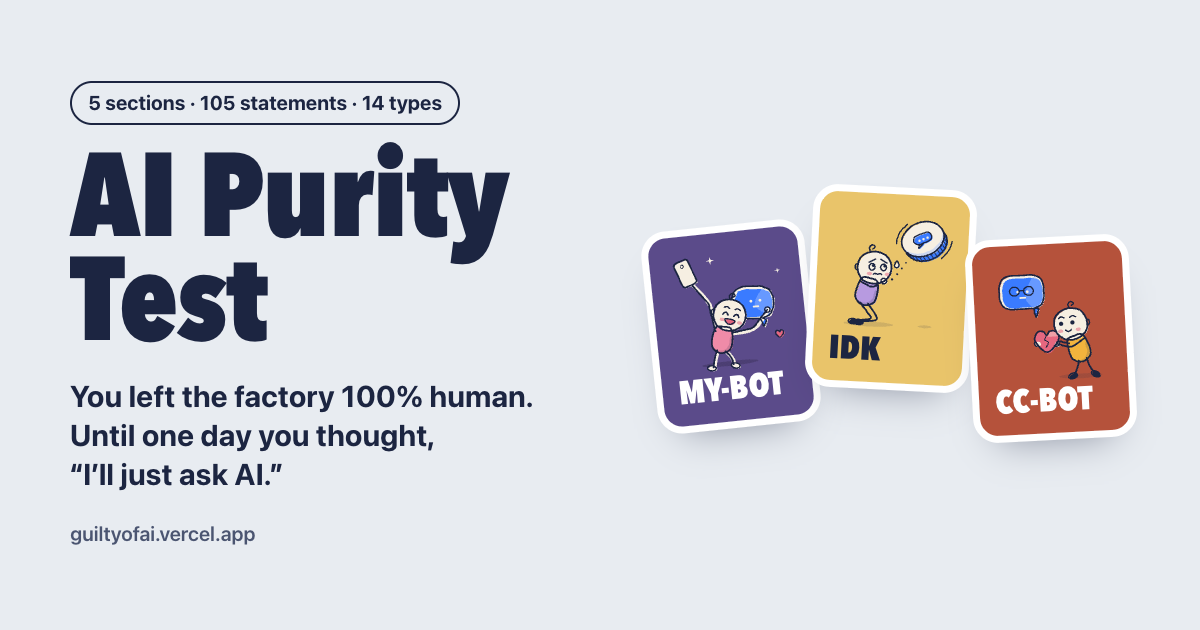
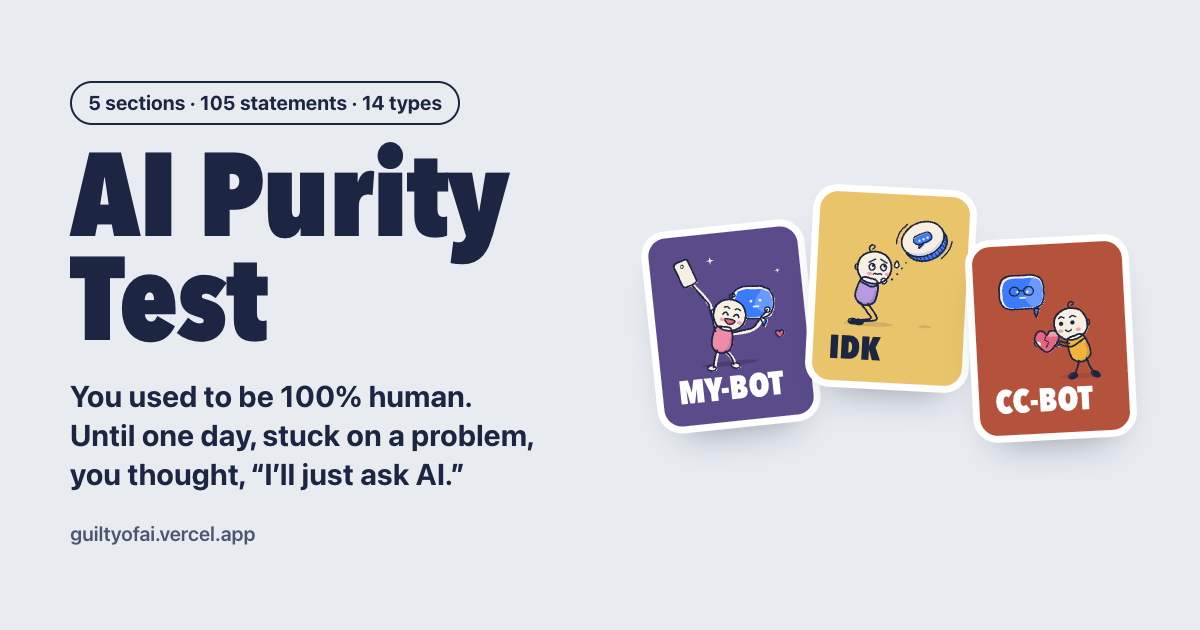
copy: landing story goes from hard problems to everyday asks
Opening now reads "you used to be 100% human", then the first ask on a
problem, then everyday asks, ending "you got a little more bot". Short
English quotes on the landing keep their words on one line.

Changed region(s): [[0.0617, 0.6032, 0.4625, 0.7841]]

diff --git a/content.js b/content.js
@@ -21,7 +21,7 @@
 globalThis.APT_CONTENT = {
   ui: {
     appName:         { en: "AI Purity Test", zh: "AI 纯度测试" },
-    intro:           { en: "Since then you’ve asked it what to eat, how to answer that text, and why everyone was laughing.\nEvery “just ask” took a little off.", zh: "后来，你问它今天吃啥，问它那条消息怎么回，问它大家到底在笑什么梗。\n每一次“就问一下”，都扣了你一点。" },
+    intro:           { en: "At first it was only the hard stuff. Then it was what to eat, what to wear, whether to post that photo. You asked without thinking.\nAsk by ask, you got a little more bot.", zh: "一开始只是难题。后来，今天吃啥、穿哪件、这张照片发不发，你都顺手问一下。\n问着问着，你越来越“人机”了。" },
     meta:            { en: "30 little things · about 2 minutes · your answers stay on your device", zh: "30 件小事 · 约 2 分钟 · 答案不会上传" },
     // The landing story ends on this: {name} is the purest type, {n} the number of
     // other types.
@@ -424,7 +424,7 @@ globalThis.APT_CONTENT = {
    */
   landing: {
     badge:     { en: "5 sections · 105 statements · 14 types", zh: "5 个部分 · 105 条题库 · 14 种人格" },
-    lead:      { en: "You left the factory 100% human.\nUntil one day you thought, “I’ll just ask AI.”", zh: "出厂时，你是 100% 纯人类。\n直到有一天，你心想：“就问一下 AI 吧。”" },
+    lead:      { en: "You used to be 100% human.\nUntil one day, stuck on a problem, you thought, “I’ll just ask AI.”", zh: "曾经，你也是 100% 纯人类。\n直到有一天，遇到一个想不通的问题，你心想：“就问一下 AI 吧。”" },
     count:     { en: "{n} tests finished", zh: "已完成 {n} 次测试" },
     scrollCue: { en: "Scroll: what this test is", zh: "往下看：这是个什么测试" },
     ranking: {

diff --git a/index.html b/index.html
@@ -34,7 +34,7 @@
   <!-- ?v= on every local file: GitHub Pages lets browsers cache them for
        10 minutes, so a new version gets a new address. Bump it before each
        push with `node tools/bump-version.js` (all of them change together). -->
-  <link rel="stylesheet" href="styles.css?v=20261116p">
+  <link rel="stylesheet" href="styles.css?v=20261116q">
 </head>
 <body>
   <header class="topbar">
@@ -59,10 +59,10 @@
        (comparison, remarks, collection; they use the scoring functions),
        then the characters (optional: without art.js the types just show no
        picture), then the UI. -->
-  <script src="content.js?v=20261116p"></script>
-  <script src="scoring.js?v=20261116p"></script>
-  <script src="extras.js?v=20261116p"></script>
-  <script src="art.js?v=20261116p"></script>
-  <script src="app.js?v=20261116p"></script>
+  <script src="content.js?v=20261116q"></script>
+  <script src="scoring.js?v=20261116q"></script>
+  <script src="extras.js?v=20261116q"></script>
+  <script src="art.js?v=20261116q"></script>
+  <script src="app.js?v=20261116q"></script>
 </body>
 </html>

diff --git a/app.js b/app.js
@@ -1161,9 +1161,14 @@
   const ZH_BREAK_AFTER = /[，、：；。！？”…的着把给和]/;
 
   // Text with "\n" in it: one line per part (each part broken like a
-  // statement), with a forced line break between them.
+  // statement), with a forced line break between them. In English a short
+  // “quote” keeps its words together, so the landing never shows “I’ll at
+  // the end of one line and just ask AI.” on the next.
   function linesOf(text) {
-    return String(text).split('\n').flatMap((line, i) => (i ? [el('br')] : []).concat(statementPieces(line)));
+    return String(text).split('\n').flatMap((line, i) => {
+      const kept = state.lang === 'zh' ? line : line.replace(/“[^“”]{1,20}”/g, (q) => q.replace(/ /g, ' '));
+      return (i ? [el('br')] : []).concat(statementPieces(kept));
+    });
   }
 
   function statementPieces(text) {

diff --git a/tools/og.html b/tools/og.html
@@ -45,8 +45,8 @@
   var C = globalThis.APT_CONTENT;
   document.getElementById('badge').textContent = C.landing.badge.en;
   document.getElementById('title').textContent = C.ui.appName.en;
-  // One sentence per line.
-  C.landing.lead.en.split(/\n|(?<=\.) |(?<=,) (?=“)/).forEach(function (part, i) {
+  // One sentence per line; a long one also breaks before "you thought".
+  C.landing.lead.en.split(/\n|(?<=\.) |(?<=,) (?=you )/).forEach(function (part, i) {
     if (i) document.getElementById('lead').appendChild(document.createElement('br'));
     document.getElementById('lead').appendChild(document.createTextNode(part));
   });
